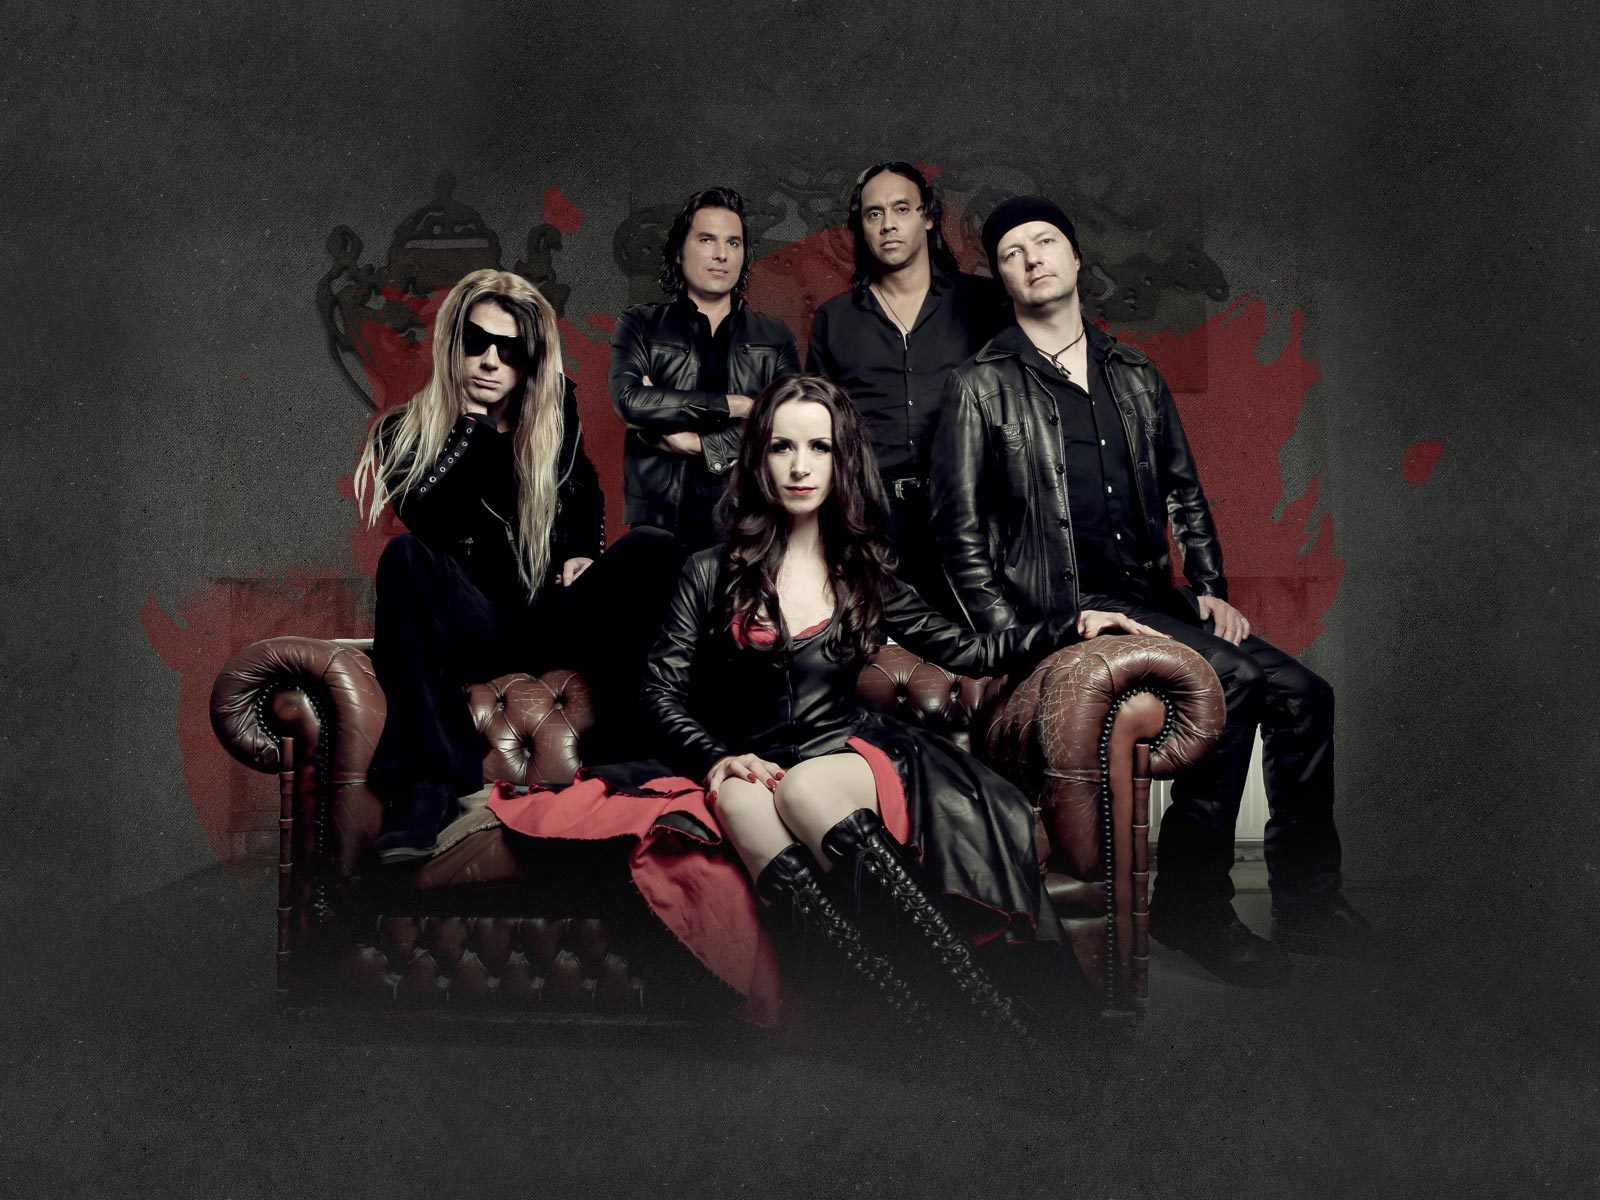
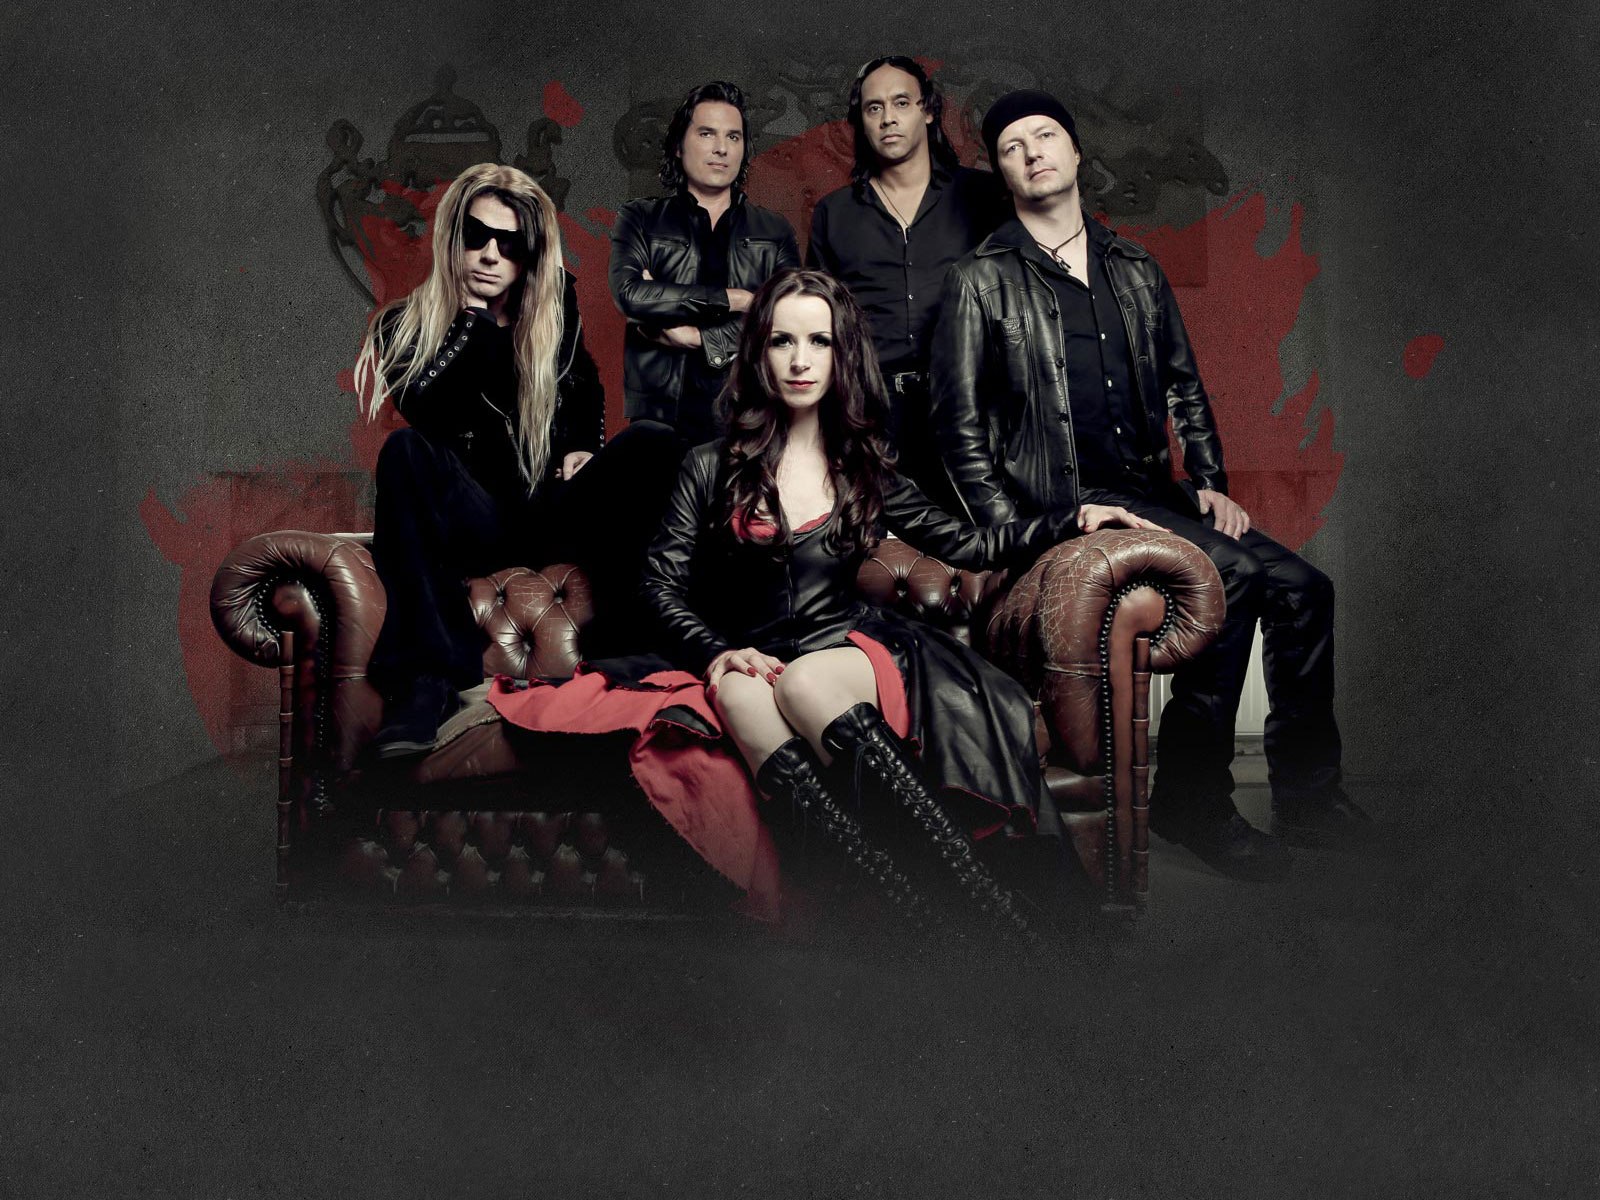
Updates after feedback Marlies.

Changed region(s): [[0.0625, 0.0308, 0.8438, 0.8325], [0.875, 0.2775, 0.9062, 0.3392], [0.875, 0.37, 0.9062, 0.4008]]

diff --git a/src/_includes/sections/contact.html b/src/_includes/sections/contact.html
@@ -16,37 +16,35 @@
 
         </div>
 
-        <div class="contact-info box box-black box-inner box-inner--xl">
 
-            <p class="lead">Being a small country, doesn't mean the Netherlands cannot yield great bands. The female fronted rock- and metal metal talent coming from the Netherlands seems to be endless.
-                After bands such as  Within Temptation, Epica, Stream of Passion, Floor Jansen’s ReVamp and prior to that After Forever, there is now a new band ready to get in line with their peers: Aniday.</p>
+            <div class="contact-bookings box box-black box-inner box-inner--xl">
+                <h3>Interviews en informatie</h3>
+                <p>Valentinemusic Cristel Brouwer</p>
+                <dl>
+                    <dt>E-mail</dt>
+                    <dd><a href="mailto:management@aniday.nl">management@aniday.nl</a></dd>
+                    <dt>Bookings</dt>
+                    <dd><a href="mailto:bookings@aniday.nl">bookings@aniday.nl</a></dd>
+                    <dt>Telefoon:</dt>
+                    <dd>06 - 547 566 98</dd>
+                </dl>
+            </div>
 
-
-            <h3>Interviews en informatie</h3>
-            <p>Valentinemusic Cristel Brouwer</p>
-            <dl>
-                <dt>E-mail</dt>
-                <dd><a href="mailto:management@aniday.nl">management@aniday.nl</a></dd>
-                <dt>Telefoon:</dt>
-                <dd>06 - 547 566 98</dd>
-            </dl>
-
-            <h3>Social media</h3>
-            <dl>
-                <dt>
-                    Twitter
-                </dt>
-                <dd><a href="http://www.twitter.com/anidayoffical">@anidayofficial</a></dd>
-                <dt>
-                    Facebook
-                </dt>
-                <dd>
-                    <a href="http://www.facebook.com/anidayofficial">Aniday</a>
-                </dd>
-            </dl>
-
-        </div>
-
+            <div class="contact-social box box-black box-inner box-inner--xl">
+                <h3>Social media</h3>
+                <dl>
+                    <dt>
+                        Twitter
+                    </dt>
+                    <dd><a href="http://www.twitter.com/anidayoffical">@anidayofficial</a></dd>
+                    <dt>
+                        Facebook
+                    </dt>
+                    <dd>
+                        <a href="http://www.facebook.com/anidayofficial">Aniday</a>
+                    </dd>
+                </dl>
+            </div>
 
     </div>
 </section>

diff --git a/src/_includes/sections/press.html b/src/_includes/sections/press.html
@@ -1,0 +1,34 @@
+<section class="page-section page-section--press" id="press">
+
+    <div class="wrapper">
+        <div class="page-section-intro">
+
+            <div class="hgroup group">
+
+                <h2 class="kilo">
+                    Press
+                </h2>
+                <p class="subtitle subtitle--glued alpha">
+                    Download our presskit
+                </p>
+
+            </div>
+
+        </div>
+    </div>
+
+    <div class="wrapper">
+
+        <div class="press-info box box-black box-inner box-inner--xl">
+
+            <p class="lead">Being a small country, doesn't mean the Netherlands cannot yield great bands. The female fronted rock- and metal metal talent coming from the Netherlands seems to be endless.
+                After bands such as  Within Temptation, Epica, Stream of Passion, Floor Jansen’s ReVamp and prior to that After Forever, there is now a new band ready to get in line with their peers: Aniday.</p>
+
+            <p>Being a small country, doesn't mean the Netherlands cannot yield great bands. The female fronted rock- and metal metal talent coming from the Netherlands seems to be endless.
+                After bands such as  Within Temptation, Epica, Stream of Passion, Floor Jansen’s ReVamp and prior to that After Forever, there is now a new band ready to get in line with their peers: Aniday.</p>
+
+        </div>
+
+    </div>
+
+</section>

diff --git a/src/_static/scss/layout/_layout.scss b/src/_static/scss/layout/_layout.scss
@@ -38,10 +38,11 @@ body {
   padding:15rem;
 }
 
-.page-section--header { background-image:url("../assets/img/photo4.jpg"); background-position:center center; border-top-width:0; background-attachment:fixed; }
+.page-section--header { background-image:url("../assets/img/photo4.jpg"); }
 .page-section--bio { background-image:url("../assets/img/photo1.jpg"); }
 .page-section--music { background-image:url("../assets/img/photo2.jpg");}
 .page-section--band { background-image:url("../assets/img/photo3.jpg");}
+.page-section--press { background-image:url("../assets/img/photo3.jpg");}
 .page-section--gallery { background-image:url("../assets/img/photo3.jpg"); }
 .page-section--shop { background-image:url("../assets/img/photo5.jpg"); }
 .page-section--contact { background-image:url("../assets/img/photo2.jpg"); }
@@ -80,6 +81,12 @@ body {
 
 .page-section--header {
   text-align:center;
+
+  p {
+    background:rgba(0,0,0,.5);
+    margin-top:27em;
+    padding:1.5em;
+  }
 
   .arrow {
     animation:arrow 2500ms infinite ease-out;

diff --git a/src/_includes/sections/shop.html b/src/_includes/sections/shop.html
@@ -20,7 +20,7 @@
 
             <h3>How to order</h3>
 
-            <p>The easiest and fastest way to order Aniday merchandising is through the <a href="http://shop.valentinemusicproductions.nl/">Valentine Music Productions Store</a>. If you want an autographed CD please leave a note in your order!</p>
+            <!-- <p>The easiest and fastest way to order Aniday merchandising is through the <a href="http://shop.valentinemusicproductions.nl/">Valentine Music Productions Store</a>. If you want an autographed CD please leave a note in your order!</p> -->
             <p>Our album is also available through the <a href="http://www.musicbuymail.eu/index.php?sn=c22c4aee5dacf195ccaa999c60dfe8cc&fkreload=true&i=40436">MusicBuyMail</a> website, but ofcourse these cd's will not be signed.</p>
 
         </div>

diff --git a/src/_includes/navigation/main-navigation.html b/src/_includes/navigation/main-navigation.html
@@ -8,9 +8,9 @@
         <li>
             <a href="/bio">Bio</a>
         </li>
-        <li>
+        <!-- <li>
             <a href="/band">Band</a>
-        </li>
+        </li> -->
         <li>
             <a href="/music">Music</a>
         </li>
@@ -19,6 +19,9 @@
         </li>
         <li>
             <a href="/shop">Shop</a>
+        </li>
+        <li>
+            <a href="/press">Press</a>
         </li>
         <li>
             <a href="/contact">Contact</a>

diff --git a/src/index.html b/src/index.html
@@ -8,6 +8,7 @@ title: Aniday - Album out now!
 
         <div class="va-container">
             <div class="va-container-inner center">
+                <p>Welcome to the new website of Aniday. This website will be updated regularly so stay tuned!</p>
             </div>
         </div>
 

diff --git a/src/_static/scss/base/_helpers.scss b/src/_static/scss/base/_helpers.scss
@@ -61,7 +61,9 @@
 
 /* Vertical align container
 ----------------------------------------------- */
-.wrapper--cover {
+.wrapper.wrapper--cover {
+  margin-left:-512px;
+  left:50%;
   height:100%;
   position:absolute;
   top:0;

diff --git a/src/_static/scss/layout/_sections.scss b/src/_static/scss/layout/_sections.scss
@@ -213,4 +213,12 @@
     width:gs-width(da, 1, 8, false, true);
   }
 
+  .contact-bookings {
+    @include gs-span(da, 1, 4, false, true);
+  }
+
+  .contact-social {
+    @include gs-span(da, 5, 8, false, true);
+  }
+
 }

diff --git a/src/press/index.html b/src/press/index.html
@@ -1,0 +1,6 @@
+---
+layout: homepage
+title: Press
+---
+
+{% include sections/press.html %}
